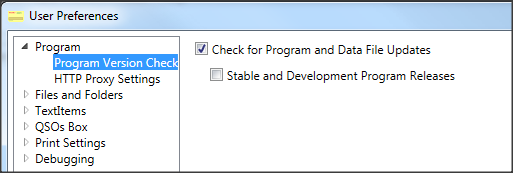
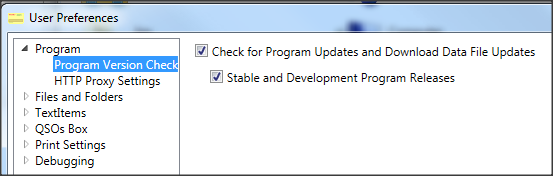
The checkbox text was changed to "Check for Program Updates and Download Data File Updates" to better describe the actions taken when the program starts and this checkbox is checked. The message: "You are disabling checks for new program versions as well as checks for new data files. You will not be

Changed region(s): [[0.0, 0.0, 0.9981, 1.0]]

diff --git a/hamqsler/UserPreferencesDialog.xaml b/hamqsler/UserPreferencesDialog.xaml
@@ -99,10 +99,10 @@
 					         Converter="{StaticResource BooleanToVisibilityConverter}"/>
 				</StackPanel.Visibility>
 				<CheckBox Name="programUpdatesCheckBox" Margin="5"
-				          ToolTip="Check this if you want program to check website
-				          for updates to program and associated data files"
+				          ToolTip="Check this if you want program to check website for updates to program and to download updated associated data files"
 				          IsChecked="{Binding Path=CheckForNewVersions, Mode=TwoWay}"
-						  Content="Check for Program and Data File Updates"/>
+						  Content="Check for Program Updates and Download Data File Updates"
+						  Unchecked="ProgramUpdatesCheckBox_Unchecked"/>
 				<CheckBox Name="developmentUpdatesCheckBox" Margin="20,5,5,5"
 							ToolTip="Check this if you want to be informed of new stable and development releases"
 							Content="Stable and Development Program Releases"

diff --git a/hamqsler/UserPreferencesDialog.xaml.cs b/hamqsler/UserPreferencesDialog.xaml.cs
@@ -429,5 +429,19 @@ namespace hamqsler
 			
 		}
 		
+		void ProgramUpdatesCheckBox_Unchecked(object sender, RoutedEventArgs e)
+		{
+			MessageBox.Show("You are disabling checks for new program versions as well as" +
+			                Environment.NewLine +
+			                "checks for new data files. You will not be informed that new" +
+			                Environment.NewLine +
+			                "versions of HamQSLer are available, and will not receive" +
+			                Environment.NewLine +
+			                "updates to files containing ADIF enumeration values, non-standard" +
+			                Environment.NewLine +
+			                "callsigns, and QSL Bureau changes.",
+			                "Updates Warning", MessageBoxButton.OK, MessageBoxImage.Warning);
+		}
+		
 	}
 }
